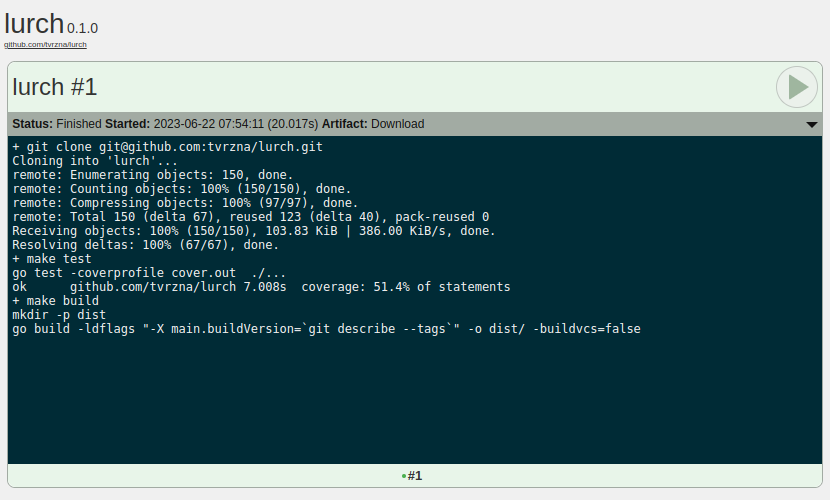
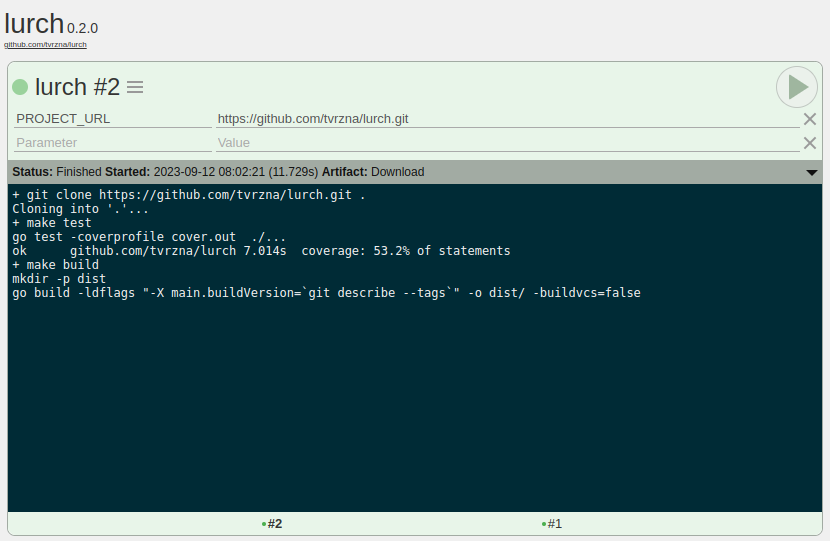
Updated readme and screenshot

diff --git a/readme.md b/readme.md
@@ -38,7 +38,9 @@ rm -rf .git/
 - [x] Core
 - [x] REST API
 - [x] Web UI
-- [ ] Build parameters passed as environmentals
-- [ ] System health info (CPU/Memory/Free space/...?)
-- [ ] CLI
+- [X] Build parameters passed as environmentals
+- [ ] Hide dot project (e.g. `.ignored-project`)
+- [ ] Dark theme
+- [ ] Custom name of application
+- [ ] System log into output (e.g. when job is started or finished + its duration)
 - [ ] Periodical watcher (running custom script saving state of last check)
